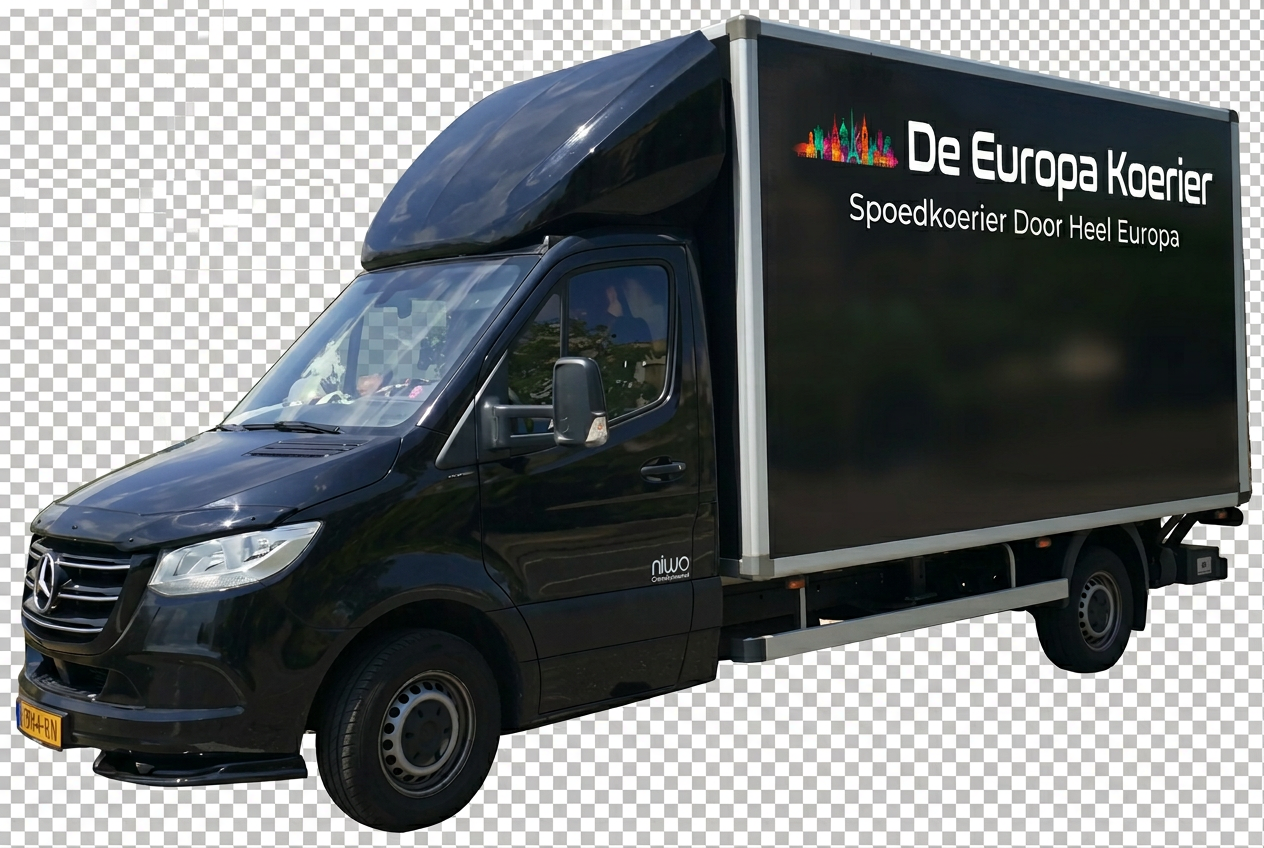
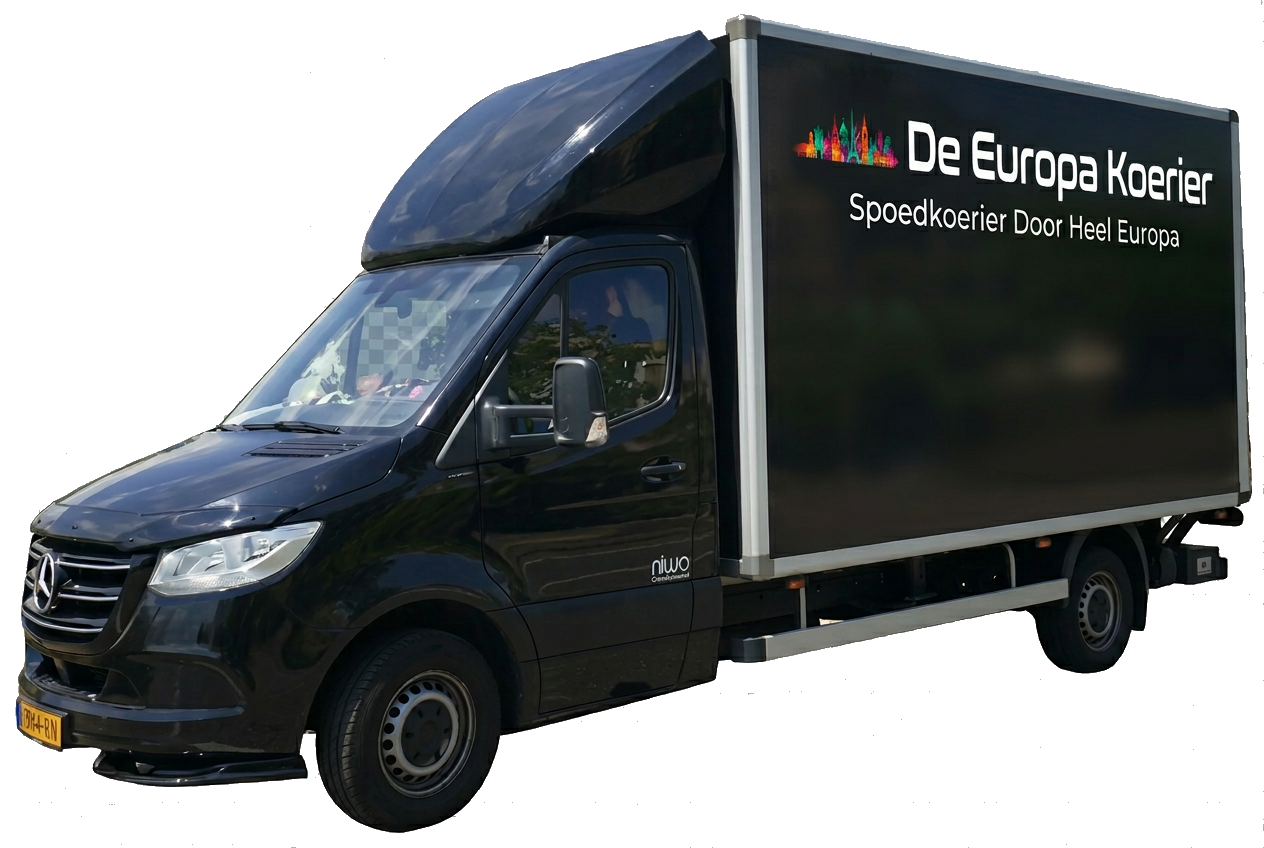
Changes

Changed region(s): [[0.0, 0.0, 1.0, 1.0]]

diff --git a/src/components/public/Footer.tsx b/src/components/public/Footer.tsx
@@ -2,9 +2,9 @@ import { Link } from 'react-router-dom';
 import { Truck, Mail, Phone, MapPin, FileText } from 'lucide-react';
 import { CONTACT } from '@/lib/contact';
 import niwoLogo from '@/assets/niwo-eurovergunning.png';
-import citan from '@/assets/citan.png';
-import bestelbus from '@/assets/bestelbus.webp';
-import bakwagen from '@/assets/bakwagen.webp';
+import citan from '@/assets/citan-transparent.png';
+import bestelbus from '@/assets/bestelbus-transparent.png';
+import bakwagen from '@/assets/bakwagen-transparent.png';
 
 export function Footer() {
   return (
@@ -19,7 +19,7 @@ export function Footer() {
               { src: bakwagen, alt: 'Bakwagen met laadklep van De Europa Koerier', label: 'Bakwagen met laadklep' },
             ].map((v) => (
               <Link key={v.label} to="/laadcapaciteit" className="group block text-center">
-                <div className="bg-muted rounded-lg p-4 mb-2 flex items-center justify-center h-32 overflow-hidden">
+                <div className="rounded-lg p-4 mb-2 flex items-center justify-center h-32 overflow-hidden">
                   <img src={v.src} alt={v.alt} loading="lazy" className="max-h-full w-auto object-contain transition-transform group-hover:scale-105" />
                 </div>
                 <span className="text-xs text-muted-foreground group-hover:text-foreground transition-colors">{v.label}</span>
